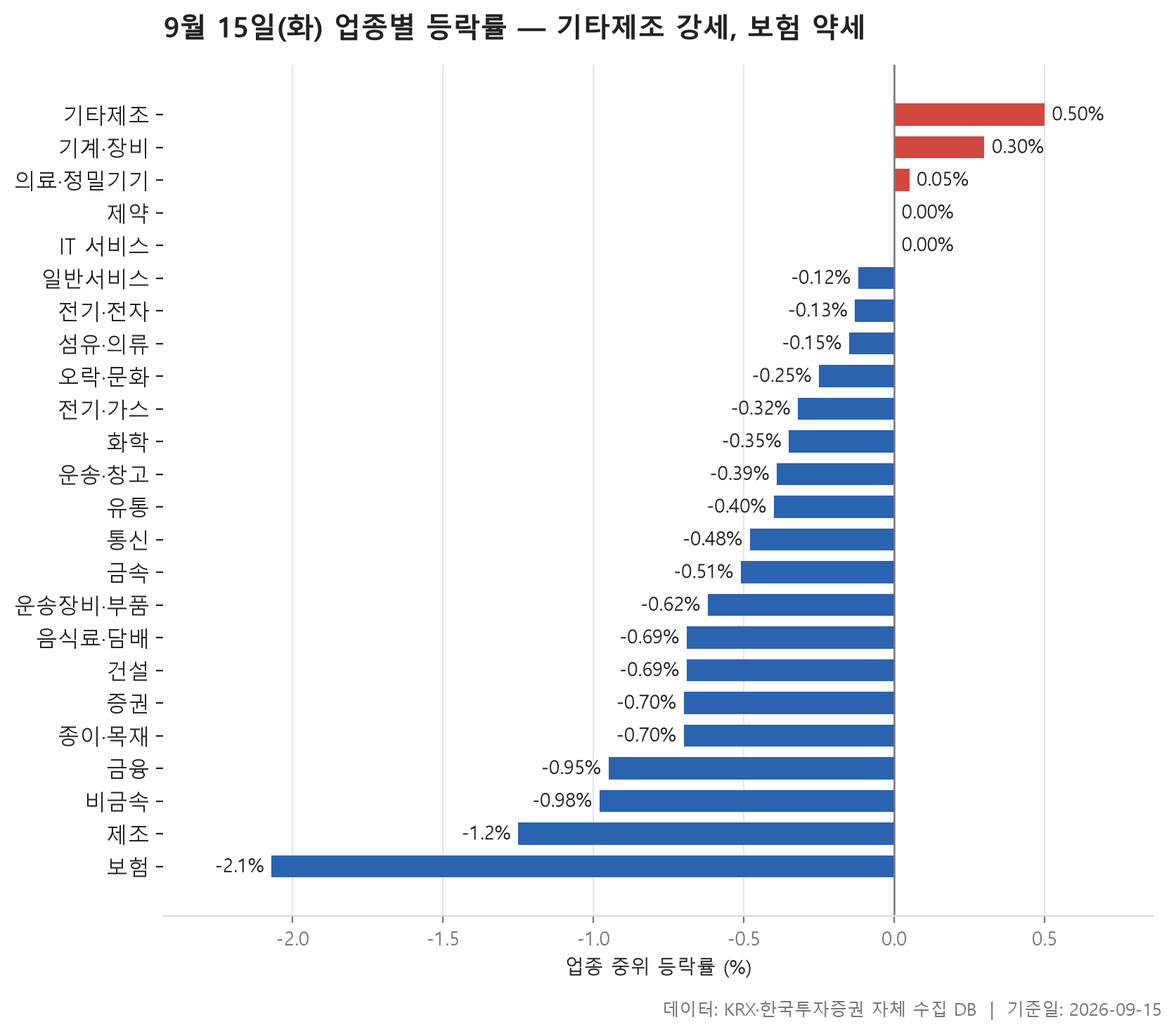
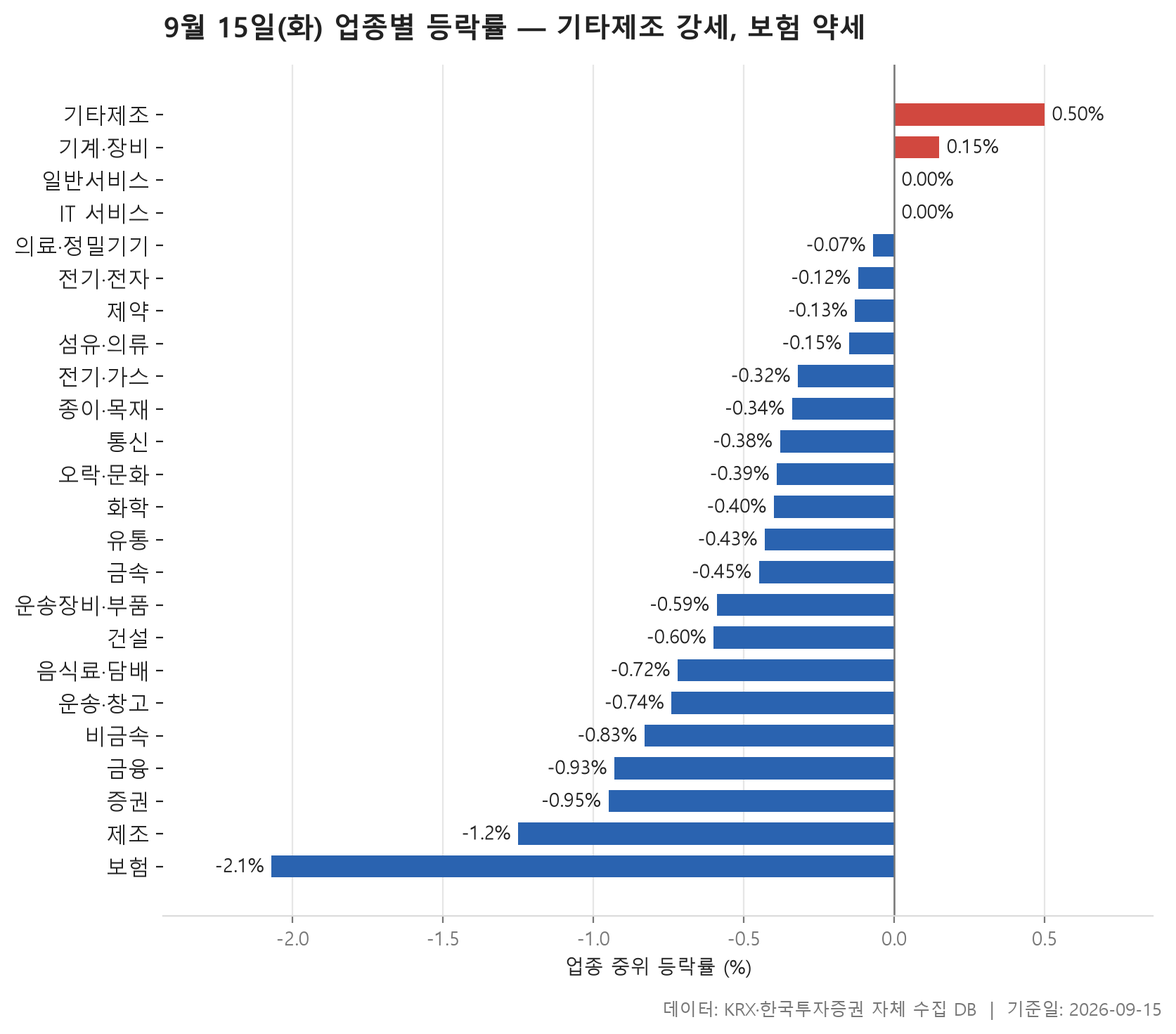
2026-09-15 자동 발행 (1편)
- 2026-09-15-daily-market

blog/daily.py 가 만들었습니다. push 는 사람이 확인 후 합니다.

diff --git a/content/posts/2026-09-15-daily-market/index.md b/content/posts/2026-09-15-daily-market/index.md
@@ -1,7 +1,7 @@
 ---
 title: "9월 15일(화) 오늘의 시장 — 기타제조 강세, 보험 약세"
 date: 2026-09-15T16:10:00+09:00
-lastmod: 2026-09-15T16:05:53+09:00
+lastmod: 2026-09-28T17:12:50+09:00
 description: "업종 흐름, 52주 신고가·신저가, 거래량이 터진 종목을 한 번에 정리했습니다."
 categories: ["오늘의 시장"]
 draft: false
@@ -20,123 +20,121 @@ strip:
     value: "20개"
     sign: ""
 ---
-9월 15일 화요일 장이 끝났습니다. 24개 업종을 늘어놓고 각 업종 안 종목들의 중위 등락률로 줄을 세워 보면, 한가운데 놓인 값이 <span class="chg chg-down">-0.40%</span>입니다. 오른 업종보다 내린 업종이 훨씬 많았고, 24개 중 3개만 플러스, 19개가 마이너스였습니다. 큰 폭으로 무너진 날은 아니지만 방향은 분명히 아래쪽이었던 셈이죠.
+9월 15일 시장은 크게 무너졌다기보다 넓게 조금씩 밀린 하루였습니다. 24개 업종 가운데 중위 등락률이 플러스로 끝난 곳은 2개, 마이너스로 끝난 곳은 20개였습니다. 업종들의 중위 등락률을 한 줄로 세우면 한가운데 값이 <span class="chg chg-down">-0.40%</span>입니다. 낙폭 자체는 크지 않았지만, 오른 쪽에 선 업종이 드물었다는 점이 이날의 모습을 잘 보여 줍니다.
 
-그런데 업종별 숫자를 조금 더 들여다보면 이야기가 단순하지 않습니다. 중위값은 마이너스인데 평균은 플러스인 업종이 여럿 있고, 반대로 한 종목이 크게 빠지면서 업종 평균을 혼자 끌어내린 곳도 보입니다. 시장 전체가 한 방향으로 움직였다기보다, 아래로 눌린 바닥 위에서 몇몇 종목만 따로 튀어 올랐다고 보는 편이 표에 가깝습니다.
+가장 잘 버틴 업종은 기타제조(<span class="chg chg-up">+0.50%</span>)였고, 가장 약한 업종은 보험(<span class="chg chg-down">-2.07%</span>)이었습니다. 52주 신고가와 신저가 목록도 같은 방향을 가리킵니다. 신고가를 새로 쓴 종목은 1개, 신저가로 내려앉은 종목은 5개였습니다. 한편 평소보다 거래량이 5배 넘게 터진 종목은 20개나 됐고, 이 가운데 대부분은 올랐습니다. 시장 전체가 가라앉은 가운데 일부 종목에만 매매가 몰린 날이었다고 보시면 됩니다.
 
-오늘 글에서는 업종 등락률로 전체 그림을 잡고, 52주 최고가를 넘어선 종목과 최저가를 밑돈 종목으로 양쪽 끝을 확인한 뒤, 거래량이 평소의 다섯 배를 넘긴 종목들로 마무리하겠습니다. 어느 표든 숫자가 말해 주는 범위까지만 설명하고, 이유를 지어내지는 않겠습니다.
+아래에서는 업종 흐름부터 보고, 신고가·신저가를 거쳐 거래량이 급증한 종목으로 차례로 넘어갑니다. 각 표에서 숫자가 서로 맞지 않아 보이는 곳을 중심으로 짚어 보겠습니다.
 
 > 기준일: 2026-09-15 · 집계: 자체 수집 데이터베이스
 
-## 업종 등락률 — 24개 중 19개 하락
+## 업종 등락률 — 24개 중 20개 하락
 
-가장 강했던 곳은 기타제조로 중위 등락률이 <span class="chg chg-up">+0.50%</span>, 가장 약했던 곳은 보험으로 <span class="chg chg-down">-2.07%</span>입니다. 위아래 폭이 그리 넓지 않습니다. 플러스로 마감한 업종은 기타제조, 기계·장비(<span class="chg chg-up">+0.30%</span>), 의료·정밀기기(<span class="chg chg-up">+0.05%</span>) 셋뿐이고, 제약과 IT 서비스가 0.00%로 정확히 제자리, 그 아래로는 완만하게 마이너스가 이어집니다. 표의 대부분이 일점 밑에 촘촘히 모여 있어서, 업종 간 차이보다는 '전반적으로 조금씩 밀렸다'는 인상이 먼저 옵니다.
+맨 위에 선 업종부터 힘이 약했습니다. 플러스로 끝난 곳은 기타제조(<span class="chg chg-up">+0.50%</span>)와 기계·장비(<span class="chg chg-up">+0.15%</span>) 둘뿐이고, 일반서비스와 IT 서비스는 중위값이 0.00%로 제자리였습니다. 맨 아래의 보험은 조금 다른 문제입니다. 11개 종목 가운데 오른 종목이 하나도 없었고, 평균(<span class="chg chg-down">-2.21%</span>)도 중위값과 거의 붙어 있습니다. 한두 종목이 끌어내린 게 아니라 업종 전체가 고르게 빠졌다는 뜻이죠. 가장 크게 움직인 삼성생명도 <span class="chg chg-down">-4.19%</span>에 그쳐 눈에 띄게 튄 종목이 없었습니다.
 
-눈에 띄는 건 중위값과 평균이 어긋난 업종들입니다. 일반서비스는 한가운데 값이 <span class="chg chg-down">-0.12%</span>인데 평균은 <span class="chg chg-up">+0.42%</span>이고, 오락·문화도 중위값 <span class="chg chg-down">-0.25%</span>에 평균 <span class="chg chg-up">+0.38%</span>입니다. 두 업종 모두 가장 크게 움직인 종목이 상한가 언저리까지 올랐는데, 그 한 종목이 업종 평균을 각각 0.18%p, 0.44%p 끌어올린 것으로 집계됩니다. 중위값과 평균의 벌어진 폭을 생각하면 그 종목 하나만으로 설명되지는 않고, 다른 몇몇 종목도 함께 위로 움직였다고 읽는 편이 맞겠습니다. 건설도 비슷합니다. 중위값은 <span class="chg chg-down">-0.69%</span>로 낮은 편인데 평균은 <span class="chg chg-down">-0.18%</span>에 그칩니다.
+중위값과 평균이 벌어진 업종에서는 대개 한 종목이 평균을 움직였습니다. 기타제조는 중위값이 <span class="chg chg-up">+0.50%</span>인데 평균은 <span class="chg chg-up">+1.26%</span>입니다. 에이럭스(<span class="chg chg-up">+9.69%</span>) 하나가 업종 평균을 0.69%p 끌어올렸으니, 격차의 대부분은 이 종목 몫입니다. 오락·문화는 방향까지 뒤집혔습니다. 중위값은 <span class="chg chg-down">-0.39%</span>인데 평균은 <span class="chg chg-up">+0.15%</span>로 플러스이고, YTN(<span class="chg chg-up">+29.80%</span>) 한 종목이 평균을 0.44%p 올려놓았습니다. 통신은 그 반대입니다. 중위값은 <span class="chg chg-down">-0.38%</span>로 무난했지만 평균은 <span class="chg chg-down">-1.57%</span>까지 내려갔고, 프리티(<span class="chg chg-down">-13.13%</span>)가 혼자서 평균을 1.01%p 끌어내렸습니다. 이런 업종에서는 평균만 봐서는 업종 전체의 분위기를 읽기 어렵습니다.
 
-반대 방향으로 어긋난 곳도 있습니다. 섬유·의류는 중위값이 <span class="chg chg-down">-0.15%</span>로 무난한데 평균은 <span class="chg chg-down">-0.82%</span>까지 내려가 있고, 가장 크게 움직인 종목이 <span class="chg chg-down">-29.29%</span>로 하한가 부근까지 밀리면서 업종 평균을 0.61%p 깎았습니다. 통신 역시 중위값 <span class="chg chg-down">-0.48%</span> 대비 평균이 <span class="chg chg-down">-1.69%</span>로 크게 벌어져 있는데, 13개 종목뿐인 업종에서 <span class="chg chg-down">-13.13%</span>짜리 한 종목이 평균을 1.01%p 끌어내렸으니 평균 쪽 숫자는 거의 그 종목이 만든 값입니다. 화학에서는 <span class="chg chg-down">-38.03%</span>까지 빠진 종목이 있었지만 222개 종목이 나눠 받다 보니 평균 기여는 -0.17%p에 그쳤습니다. 업종 규모에 따라 한 종목의 무게가 얼마나 달라지는지 보여 주는 대목이죠.
-
-상승비율도 같이 보면 좋습니다. 보험은 11개 종목 중 오른 종목이 하나도 없어 상승비율이 0.00%입니다. 운송·창고와 제조는 일곱 중 하나꼴, 음식료·담배·증권·비금속도 다섯에 하나 안팎에 머물렀습니다. 반면 기타제조는 열 곳 중 여섯 곳 이상이 올랐고, 기계·장비는 절반을 조금 넘겼습니다. 거래대금이 112,808.60억원으로 압도적인 전기·전자는 중위값 <span class="chg chg-down">-0.13%</span>, 평균 <span class="chg chg-down">-0.01%</span>로 사실상 제자리에 가까웠습니다. 돈이 가장 많이 오간 곳이 가장 조용했던 셈입니다.
+종목 수가 많은 업종에서는 한 종목의 영향이 묻힙니다. 화학의 카프로는 <span class="chg chg-down">-38.03%</span>로 표 전체에서 낙폭이 가장 컸지만, 222개 종목 속에서 업종 평균을 움직인 폭은 0.17%p에 머물렀습니다. 거래대금으로 보면 전기·전자가 118,720.60억원으로 다른 업종을 크게 앞섰는데, 중위값 <span class="chg chg-down">-0.12%</span>에 평균 <span class="chg chg-up">+0.01%</span>로 거의 움직이지 않았습니다. 하단에서는 오른 종목이 드문 업종이 눈에 띕니다. 운송·창고는 오른 종목이 10.70%로 열 곳에 한 곳꼴이었고, 증권(11.10%)과 음식료·담배(17.90%)도 비슷하게 한쪽으로 쏠려 있었습니다.
 
 ![업종 등락률 차트](chart-sector-change.png)
 
 | 업종 | 종목수(개) | 중위등락률(%) | 평균등락률(%) | 상승비율(%) | 주도종목 | 주도종목등락률(%) | 평균기여도(%p) | 거래대금합계(억원) |
 |---|---|---|---|---|---|---|---|---|
-| 기타제조 | 14 | +0.50 | +1.43 | 64.30 | 에이럭스 | +9.83 | 0.70 | 162.30 |
-| 기계·장비 | 206 | +0.30 | +0.64 | 54.40 | 코닉오토메이션 | +22.65 | 0.11 | 16,200.00 |
-| 의료·정밀기기 | 100 | +0.05 | +0.24 | 50.00 | 케이엔알시스템 | +17.87 | 0.18 | 2,421.30 |
-| 제약 | 165 | 0.00 | +0.48 | 43.60 | 삼익제약 | +27.46 | 0.17 | 10,468.80 |
-| IT 서비스 | 243 | 0.00 | +0.45 | 46.90 | 아이티센피엔에스 | +29.78 | 0.12 | 11,610.30 |
-| 일반서비스 | 168 | -0.12 | +0.42 | 42.90 | 엔젠바이오 | +29.94 | 0.18 | 6,884.20 |
-| 전기·전자 | 363 | -0.13 | -0.01 | 46.30 | 한국첨단소재 | +29.98 | 0.08 | 112,808.60 |
-| 섬유·의류 | 48 | -0.15 | -0.82 | 41.70 | 원풍물산 | -29.29 | -0.61 | 182.60 |
-| 오락·문화 | 67 | -0.25 | +0.38 | 44.80 | YTN | +29.80 | 0.44 | 719.50 |
-| 전기·가스 | 10 | -0.32 | -1.09 | 40.00 | SGC에너지 | -5.79 | -0.58 | 514.50 |
-| 화학 | 222 | -0.35 | -0.29 | 40.50 | 카프로 | -38.03 | -0.17 | 11,032.20 |
-| 운송·창고 | 28 | -0.39 | -1.11 | 14.30 | 대한해운 | -7.31 | -0.26 | 927.30 |
-| 유통 | 154 | -0.40 | -0.42 | 37.00 | 인콘 | -9.65 | -0.06 | 4,469.30 |
-| 통신 | 13 | -0.48 | -1.69 | 15.40 | 프리티 | -13.13 | -1.01 | 1,276.90 |
-| 금속 | 131 | -0.51 | -0.50 | 35.10 | SHD | +29.97 | 0.23 | 4,337.90 |
-| 운송장비·부품 | 134 | -0.62 | -0.36 | 30.60 | 삼현 | +30.45 | 0.23 | 9,731.70 |
-| 음식료·담배 | 84 | -0.69 | -0.98 | 19.00 | 우리바이오 | +5.66 | 0.07 | 1,135.00 |
-| 건설 | 51 | -0.69 | -0.18 | 33.30 | KCC건설 | +6.24 | 0.12 | 3,583.40 |
-| 증권 | 18 | -0.70 | -0.92 | 16.70 | 미래에셋증권 | -3.17 | -0.18 | 881.10 |
-| 종이·목재 | 27 | -0.70 | -0.39 | 37.00 | 모나리자 | +6.06 | 0.22 | 112.00 |
-| 금융 | 111 | -0.95 | -0.74 | 27.90 | 나우IB | +9.46 | 0.09 | 13,546.20 |
-| 비금속 | 36 | -0.98 | -1.09 | 16.70 | 동국알앤에스 | -5.00 | -0.14 | 429.70 |
-| 제조 | 7 | -1.25 | -0.63 | 14.30 | 에넥스 | +4.36 | 0.62 | 7.60 |
-| 보험 | 11 | -2.07 | -2.15 | 0.00 | 삼성생명 | -4.03 | -0.37 | 2,235.60 |
+| 기타제조 | 14 | +0.50 | +1.26 | 64.30 | 에이럭스 | +9.69 | 0.69 | 165.40 |
+| 기계·장비 | 206 | +0.15 | +0.53 | 51.90 | 코닉오토메이션 | +24.75 | 0.12 | 17,060.50 |
+| 일반서비스 | 168 | 0.00 | +0.45 | 44.00 | 엔젠바이오 | +29.94 | 0.18 | 7,334.90 |
+| IT 서비스 | 243 | 0.00 | +0.34 | 46.50 | 아톤 | +29.84 | 0.12 | 12,909.30 |
+| 의료·정밀기기 | 100 | -0.07 | +0.26 | 49.00 | 케이엔알시스템 | +17.75 | 0.18 | 2,754.50 |
+| 전기·전자 | 363 | -0.12 | +0.01 | 46.00 | 한국첨단소재 | +29.98 | 0.08 | 118,720.60 |
+| 제약 | 165 | -0.13 | +0.41 | 41.80 | 삼익제약 | +26.11 | 0.16 | 10,876.00 |
+| 섬유·의류 | 48 | -0.15 | -0.90 | 41.70 | 원풍물산 | -29.29 | -0.61 | 187.60 |
+| 전기·가스 | 10 | -0.32 | -1.13 | 40.00 | SGC에너지 | -5.79 | -0.58 | 533.30 |
+| 종이·목재 | 27 | -0.34 | -0.29 | 37.00 | 무림P&P | +2.96 | 0.11 | 114.90 |
+| 통신 | 13 | -0.38 | -1.57 | 23.10 | 프리티 | -13.13 | -1.01 | 1,392.40 |
+| 오락·문화 | 67 | -0.39 | +0.15 | 41.80 | YTN | +29.80 | 0.44 | 732.20 |
+| 화학 | 222 | -0.40 | -0.43 | 37.80 | 카프로 | -38.03 | -0.17 | 11,562.20 |
+| 유통 | 154 | -0.43 | -0.44 | 36.40 | 인콘 | -9.65 | -0.06 | 4,643.80 |
+| 금속 | 131 | -0.45 | -0.52 | 35.10 | SHD | +29.97 | 0.23 | 4,522.30 |
+| 운송장비·부품 | 134 | -0.59 | -0.40 | 30.60 | 삼현 | +29.80 | 0.22 | 10,150.00 |
+| 건설 | 51 | -0.60 | -0.20 | 33.30 | KCC건설 | +6.24 | 0.12 | 3,822.70 |
+| 음식료·담배 | 84 | -0.72 | -1.03 | 17.90 | 우리바이오 | +5.66 | 0.07 | 1,281.90 |
+| 운송·창고 | 28 | -0.74 | -1.10 | 10.70 | 팬오션 | -5.96 | -0.21 | 971.80 |
+| 비금속 | 36 | -0.83 | -1.00 | 16.70 | 강동씨앤엘 | -5.06 | -0.14 | 461.40 |
+| 금융 | 111 | -0.93 | -0.74 | 28.80 | 린드먼아시아 | +8.79 | 0.08 | 14,247.50 |
+| 증권 | 18 | -0.95 | -1.14 | 11.10 | 미래에셋증권 | -3.32 | -0.18 | 910.50 |
+| 제조 | 7 | -1.25 | -0.63 | 14.30 | 에넥스 | +4.36 | 0.62 | 7.70 |
+| 보험 | 11 | -2.07 | -2.21 | 0.00 | 삼성생명 | -4.19 | -0.38 | 2,341.20 |
 
-## 52주 신고가 1개 — 인피니트헬스케어 13.17%
+## 52주 신고가 1개 — 인피니트헬스케어 14.50%
 
-52주 최고가를 넘어선 종목은 시가총액 500억원, 거래대금 3억원이라는 조건을 걸고 셌을 때 단 하나였습니다. 인피니트헬스케어가 12,800원에 마감하며 <span class="chg chg-up">+13.17%</span> 올랐고, 직전 52주 최고가였던 11,310원을 넘겼습니다. 시가총액은 3,123억원, 시장은 코스닥, 업종 구분은 IT 서비스입니다.
+이날 52주 신고가를 새로 쓴 종목은 인피니트헬스케어 하나뿐입니다. 코스닥 IT 서비스 종목으로, 종가 12,950원에 <span class="chg chg-up">+14.50%</span> 올라 직전 52주 최고가였던 11,310원을 넉넉하게 넘어섰습니다. 시가총액은 3,159.30억원, 거래대금은 290.40억원이었습니다.
 
-신고가 종목이 하루에 하나뿐이라는 것은 그 자체로 정보입니다. 업종 대부분이 마이너스로 마감한 날이었으니 어울리는 결과이기도 하고요. 다만 이 종목은 뒤에 나올 거래량 급증 명단에도 이름을 올리는데, 평소 거래량의 24.00배가 오간 날이었습니다. 왜 그랬는지는 이 표가 말해 주지 않습니다. 오늘 확인할 수 있는 건 가격이 지난 1년 구간의 위쪽을 처음 뚫었고, 거래가 평소보다 크게 늘었다는 두 가지 사실뿐입니다.
+이 종목은 뒤에 나오는 거래량 급증 표에도 다시 등장합니다. 평소보다 24.10배 많은 거래량이 실리면서 신고가를 뚫은 셈이죠. 흥미로운 건 이 종목이 속한 IT 서비스 업종의 중위 등락률이 0.00%였다는 점입니다. 업종 전체는 보합이었는데 그 안에서 몇몇 종목만 크게 움직였고, 인피니트헬스케어가 그중 하나였습니다. 왜 올랐는지는 자료에 없으니 여기서 판단하지 않겠습니다.
+
+신고가가 하나에 그친 것 자체도 이날 시장을 말해 줍니다. 신저가 쪽이 5개였으니 새로운 고점보다 새로운 저점이 더 많이 나온 하루였습니다.
 
 ![52주 신고가 차트](chart-high-change-rate.png)
 
 | 종목명 | 종목코드 | 시장 | 업종 | 종가(원) | 등락률(%) | 이전52주최고(원) | 거래대금(억원) | 시가총액(억원) |
 |---|---|---|---|---|---|---|---|---|
-| 인피니트헬스케어 | 071200 | KOSDAQ | IT 서비스 | 12,800 | +13.17 | 11,310 | 287.70 | 3,123 |
+| 인피니트헬스케어 | 071200 | KOSDAQ | IT 서비스 | 12,950 | +14.50 | 11,310 | 290.40 | 3,159.30 |
 
-## 52주 신저가 5개 — 최저 에이비엘바이오 -7.91%
+## 52주 신저가 5개 — 최저 에이비엘바이오 -8.63%
 
-아래쪽 끝에는 다섯 종목이 있습니다. 위쪽이 하나였던 것과 비교하면 숫자로도 오늘 시장의 기울기가 드러나는 셈이죠. 다섯 중 넷이 코스닥, 하나가 코스피이고, 업종은 셋으로 나뉘는데 제약이 3개로 가장 많습니다.
+52주 신저가로 내려간 종목은 5개이고, 이 중 3개가 제약 업종입니다. 코스닥이 4개, 코스피가 1개입니다. 규모가 가장 큰 곳은 시가총액 33,200.60억원의 에이비엘바이오입니다. 하루 <span class="chg chg-down">-8.63%</span> 빠지면서 종가 59,300원으로 직전 52주 최저가 59,800원을 밑돌았습니다. 거래대금도 578.20억원으로 이 표에서 홀로 많았습니다.
 
-낙폭은 종목마다 꽤 다릅니다. 가장 많이 내린 에이비엘바이오가 <span class="chg chg-down">-7.91%</span>, 프레스티지바이오로직스가 <span class="chg chg-down">-6.94%</span>로 두 자릿수에 가까운 반면, 노바렉스는 <span class="chg chg-down">-0.59%</span>에 그쳤습니다. 한가운데 놓인 값은 <span class="chg chg-down">-2.30%</span>입니다. 즉 '크게 무너져서 신저가'인 종목과 '살짝 밀렸는데 마침 그 자리가 1년 최저'인 종목이 섞여 있습니다. 노바렉스의 종가가 10,030원, 직전 52주 최저가가 10,040원이라는 점을 보면 후자가 어떤 모습인지 짐작이 갑니다. 이미 바닥 언저리에 오래 머물러 있던 가격이 아주 조금 더 내려가면서 기록이 갱신된 것이죠. SNT다이내믹스(27,600원, 직전 최저 27,700원)와 티앤엘(27,100원, 직전 최저 27,300원)도 비슷한 모양입니다.
+나머지 종목들은 결이 좀 다릅니다. 노바렉스는 <span class="chg chg-down">-0.59%</span>만 내렸는데도 종가 10,030원이 이전 최저가 10,040원을 간신히 밑돌면서 신저가가 됐습니다. 유일한 코스피 종목인 SNT다이내믹스 역시 27,700원이던 이전 저점을 27,600원으로 살짝 낮췄을 뿐입니다. 두 종목의 거래대금은 각각 3.40억원, 6.50억원으로 적었습니다. 크게 팔렸다기보다 한산한 거래 속에서 저점이 조금씩 내려온 모습입니다. 반면 프레스티지바이오로직스는 <span class="chg chg-down">-6.94%</span> 급락하며 1,616원이던 이전 저점을 1,528원으로 확실히 끌어내렸습니다.
 
-시가총액에서는 에이비엘바이오가 33,257억원으로 나머지와 자릿수가 다릅니다. 이 종목만 거래대금이 555.40억원으로 두드러지고, 나머지 넷은 몇 억원에서 십여 억원 수준에 머물러 있습니다. 같은 '신저가'라는 이름으로 묶였지만 거래가 몰린 곳은 한 곳뿐이었다는 뜻입니다.
+다섯 종목의 하루 등락률을 모아 보면 가운데 값이 <span class="chg chg-down">-2.30%</span>입니다. 큰 폭으로 빠져 저점을 깬 종목과 조금 밀려 경계선을 넘은 종목이 섞여 있다는 뜻입니다. 그래서 신저가라는 결과는 같아도 무게는 종목마다 다르게 봐야 합니다.
 
 ![52주 신저가 차트](chart-low-change-rate.png)
 
 | 종목명 | 종목코드 | 시장 | 업종 | 종가(원) | 등락률(%) | 이전52주최저(원) | 거래대금(억원) | 시가총액(억원) |
 |---|---|---|---|---|---|---|---|---|
-| 에이비엘바이오 | 298380 | KOSDAQ | 제약 | 59,400 | -7.91 | 59,800 | 555.40 | 33,257 |
-| SNT다이내믹스 | 003570 | KOSPI | 운송장비·부품 | 27,600 | -2.30 | 27,700 | 6.10 | 9,178 |
-| 티앤엘 | 340570 | KOSDAQ | 제약 | 27,100 | -1.45 | 27,300 | 13.60 | 4,355 |
-| 노바렉스 | 194700 | KOSDAQ | 음식료·담배 | 10,030 | -0.59 | 10,040 | 3.20 | 1,831 |
-| 프레스티지바이오로직스 | 334970 | KOSDAQ | 제약 | 1,528 | -6.94 | 1,616 | 6.00 | 1,188 |
+| 에이비엘바이오 | 298380 | KOSDAQ | 제약 | 59,300 | -8.63 | 59,800 | 578.20 | 33,200.60 |
+| SNT다이내믹스 | 003570 | KOSPI | 운송장비·부품 | 27,600 | -2.30 | 27,700 | 6.50 | 9,177.70 |
+| 티앤엘 | 340570 | KOSDAQ | 제약 | 27,200 | -1.09 | 27,300 | 13.90 | 4,371.10 |
+| 노바렉스 | 194700 | KOSDAQ | 음식료·담배 | 10,030 | -0.59 | 10,040 | 3.40 | 1,831.00 |
+| 프레스티지바이오로직스 | 334970 | KOSDAQ | 제약 | 1,528 | -6.94 | 1,616 | 6.10 | 1,188.10 |
 
-## 거래량 급증 20개 — 최고 오상헬스케어 291배
+## 거래량 급증 20개 — 최고 오상헬스케어 337.70배
 
-당일 거래량이 직전 20거래일 평균의 5배를 넘은 종목 가운데 시가총액·거래대금 조건을 통과한 것이 20개입니다. 배수의 분포가 상당히 치우쳐 있습니다. 오상헬스케어가 291.00배, 한컴라이프케어가 192.60배, 무림P&P가 105.50배로 세 종목만 세 자릿수이고, 그 아래는 57.10배에서 11.40배까지 완만하게 내려옵니다. 한가운데 값은 24.90배입니다. 위쪽 몇 종목이 평균을 통째로 왜곡하는 전형적인 모양이라, 배수는 순위보다 '어디서 끊기는가'를 보는 게 낫습니다.
+평소의 5배를 넘는 거래량이 실린 종목은 20개였고, 배수를 늘어놓았을 때 한가운데 값이 26.60배입니다. 기준선인 5배를 한참 웃도는 종목이 대부분이었다는 얘기입니다. 맨 위의 오상헬스케어는 20일 평균이 하루 12,246주였는데 이날은 4,135,650주가 거래돼 337.70배를 기록했고, 주가는 <span class="chg chg-up">+10.58%</span> 올랐습니다. 한컴라이프케어(196.20배)와 종이·목재 업종에서 가장 크게 움직인 무림P&P(107.00배)까지, 100배를 넘긴 종목이 세 곳입니다.
 
-거래가 터졌다고 해서 다 오른 것은 아닙니다. 20개 중 대부분이 플러스지만 자람테크놀로지는 <span class="chg chg-down">-25.25%</span>, 해성에어로보틱스는 <span class="chg chg-down">-7.05%</span>, 티와이홀딩스는 <span class="chg chg-down">-0.94%</span>로 마이너스입니다. 특히 자람테크놀로지는 평소의 17.40배가 거래되면서 크게 밀렸습니다. 거래량 급증은 방향이 아니라 관심의 크기를 재는 지표라는 점을 이 세 종목이 보여 줍니다.
+업종으로는 IT 서비스가 7개로 가장 많습니다. 아톤(<span class="chg chg-up">+29.84%</span>)과 한컴위드(<span class="chg chg-up">+29.78%</span>)가 급등했고, 라온시큐어(<span class="chg chg-up">+14.69%</span>)는 거래대금이 1,542.90억원으로 이 표에서 가장 컸습니다. 앞에서 봤듯이 IT 서비스 업종 전체의 중위 등락률은 0.00%였습니다. 업종이 함께 오른 게 아니라 몇몇 종목에 매매가 집중됐다고 읽는 편이 맞습니다. 전기·전자의 한국첨단소재(<span class="chg chg-up">+29.98%</span>)는 거래대금이 1,342.20억원이었는데, 시가총액 1,012.10억원보다도 많습니다. 라온시큐어 역시 거래대금이 시가총액 1,439.30억원을 웃돌았습니다. 하루 사이에 회사 몸집보다 큰 금액이 손바뀜된 셈입니다.
 
-배수와 거래대금이 따로 노는 것도 눈여겨볼 만합니다. 배수 1위인 오상헬스케어의 거래대금은 277.10억원인데, 배수로는 25.80배에 불과한 한국첨단소재가 1,339.30억원, 19.40배인 라온시큐어가 1,448.30억원으로 훨씬 큽니다. 배수는 그 종목의 평소 거래량 대비 몇 배인지를 볼 뿐이라, 원래 조용하던 종목일수록 숫자가 쉽게 커집니다. 실제로 오간 돈의 크기는 별개인 셈이죠. 반대편 끝에 있는 KCC건설은 11.40배로 명단 맨 아래인데 거래대금도 10.40억원, 티와이홀딩스는 3.70억원으로 필터 하한 근처입니다.
-
-업종은 9개로 나뉘고 IT 서비스가 6개로 가장 많습니다. 앞서 업종 표에서 IT 서비스의 중위 등락률은 0.00%였는데, 그 안에서 거래가 크게 늘어난 종목이 여섯이나 나왔다는 조합입니다. 업종 전체가 움직인 게 아니라 일부 종목에 거래가 몰린 하루였다고 읽을 수 있겠습니다. 시장별로는 코스닥이 16개, 코스피가 4개였습니다.
+표 맨 아래 네 종목만 빼면 모두 올랐습니다. 다만 거래량이 터졌다고 늘 오른 것은 아닙니다. 자람테크놀로지는 거래량이 12.50배로 늘면서 <span class="chg chg-down">-23.93%</span> 급락했습니다. 미투온은 배수가 12.30배로 표에서 가장 낮은데, 평소 거래량 자체가 하루 1,880,261주로 많았기 때문입니다. 이날 거래대금은 868.10억원으로 상위권이었고 주가는 <span class="chg chg-down">-4.98%</span> 내렸습니다. 시장별로는 코스닥이 16개, 코스피가 4개로 코스닥 쪽에 크게 몰렸습니다.
 
 ![거래량 급증 차트](chart-volume-ratio.png)
 
 | 종목명 | 종목코드 | 시장 | 업종 | 종가(원) | 등락률(%) | 거래량(주) | 평균거래량(주) | 배수(배) | 거래대금(억원) | 시가총액(억원) |
 |---|---|---|---|---|---|---|---|---|---|---|
-| 오상헬스케어 | 036220 | KOSDAQ | 의료·정밀기기 | 7,230 | +10.89 | 3,560,381 | 12,235 | 291.00 | 277.10 | 1,035 |
-| 한컴라이프케어 | 372910 | KOSPI | 의료·정밀기기 | 2,040 | +7.26 | 11,828,188 | 61,412 | 192.60 | 262.10 | 565 |
-| 무림P&P | 009580 | KOSPI | 종이·목재 | 1,670 | +2.96 | 4,471,771 | 42,393 | 105.50 | 80.00 | 1,042 |
-| 한국정보인증 | 053300 | KOSDAQ | IT 서비스 | 5,470 | +5.60 | 5,813,274 | 101,893 | 57.10 | 336.80 | 2,164 |
-| 아톤 | 158430 | KOSDAQ | IT 서비스 | 6,310 | +29.70 | 11,715,725 | 284,053 | 41.20 | 671.50 | 1,545 |
-| 코닉오토메이션 | 391710 | KOSDAQ | 기계·장비 | 1,473 | +22.65 | 7,239,555 | 205,682 | 35.20 | 106.00 | 628 |
-| 동아지질 | 028100 | KOSPI | 건설 | 18,330 | +3.38 | 555,352 | 16,629 | 33.40 | 106.30 | 2,057 |
-| 한컴위드 | 054920 | KOSDAQ | IT 서비스 | 5,230 | +29.78 | 10,083,905 | 325,639 | 31.00 | 490.10 | 1,476 |
-| 시공테크 | 020710 | KOSDAQ | 일반서비스 | 3,900 | +1.43 | 2,825,248 | 98,806 | 28.60 | 116.50 | 782 |
-| 한국첨단소재 | 062970 | KOSDAQ | 전기·전자 | 3,360 | +29.98 | 43,587,698 | 1,691,184 | 25.80 | 1,339.30 | 1,012 |
-| 인피니트헬스케어 | 071200 | KOSDAQ | IT 서비스 | 12,800 | +13.17 | 2,240,518 | 93,524 | 24.00 | 287.70 | 3,123 |
-| 에어레인 | 163280 | KOSDAQ | 기계·장비 | 3,965 | +11.06 | 1,507,101 | 65,995 | 22.80 | 63.10 | 539 |
-| 페스카로 | 0015S0 | KOSDAQ | 일반서비스 | 9,200 | +17.20 | 1,224,233 | 58,793 | 20.80 | 111.90 | 908 |
-| 라온시큐어 | 042510 | KOSDAQ | IT 서비스 | 12,850 | +14.43 | 11,018,141 | 567,427 | 19.40 | 1,448.30 | 1,427 |
-| 웨이비스 | 289930 | KOSDAQ | 전기·전자 | 7,450 | +3.47 | 910,836 | 47,518 | 19.20 | 73.20 | 980 |
-| 자람테크놀로지 | 389020 | KOSDAQ | 전기·전자 | 16,370 | -25.25 | 422,061 | 24,243 | 17.40 | 70.60 | 1,130 |
-| 파수AI | 150900 | KOSDAQ | IT 서비스 | 4,385 | +1.98 | 1,933,696 | 120,786 | 16.00 | 90.10 | 513 |
-| 티와이홀딩스 | 363280 | KOSPI | 금융 | 2,100 | -0.94 | 171,727 | 13,130 | 13.10 | 3.70 | 955 |
-| 해성에어로보틱스 | 059270 | KOSDAQ | 금속 | 4,880 | -7.05 | 579,910 | 45,007 | 12.90 | 26.50 | 545 |
-| KCC건설 | 021320 | KOSDAQ | 건설 | 5,960 | +6.24 | 171,796 | 15,128 | 11.40 | 10.40 | 1,275 |
+| 오상헬스케어 | 036220 | KOSDAQ | 의료·정밀기기 | 7,210 | +10.58 | 4,135,650 | 12,246 | 337.70 | 320.10 | 1,031.70 |
+| 한컴라이프케어 | 372910 | KOSPI | 의료·정밀기기 | 2,065 | +8.57 | 12,053,363 | 61,429 | 196.20 | 266.70 | 571.50 |
+| 무림P&P | 009580 | KOSPI | 종이·목재 | 1,670 | +2.96 | 4,557,129 | 42,597 | 107.00 | 81.50 | 1,041.60 |
+| 한국정보인증 | 053300 | KOSDAQ | IT 서비스 | 5,500 | +7.42 | 6,680,180 | 102,158 | 65.40 | 385.90 | 2,176.10 |
+| 동아지질 | 028100 | KOSPI | 건설 | 18,690 | +5.41 | 836,336 | 16,636 | 50.30 | 162.40 | 2,097.40 |
+| 아톤 | 158430 | KOSDAQ | IT 서비스 | 6,310 | +29.84 | 11,780,434 | 289,444 | 40.70 | 675.50 | 1,544.80 |
+| 한컴위드 | 054920 | KOSDAQ | IT 서비스 | 5,230 | +29.78 | 10,102,187 | 327,418 | 30.90 | 491.00 | 1,475.80 |
+| 시공테크 | 020710 | KOSDAQ | 일반서비스 | 3,895 | +1.30 | 2,962,733 | 98,838 | 30.00 | 121.70 | 780.90 |
+| 코닉오토메이션 | 391710 | KOSDAQ | 기계·장비 | 1,502 | +24.75 | 7,410,959 | 258,273 | 28.70 | 108.60 | 640.20 |
+| 페스카로 | 0015S0 | KOSDAQ | 일반서비스 | 9,200 | +17.20 | 1,624,283 | 58,973 | 27.50 | 149.30 | 907.70 |
+| 한국첨단소재 | 062970 | KOSDAQ | 전기·전자 | 3,360 | +29.98 | 43,673,913 | 1,700,776 | 25.70 | 1,342.20 | 1,012.10 |
+| 인피니트헬스케어 | 071200 | KOSDAQ | IT 서비스 | 12,950 | +14.50 | 2,261,895 | 93,835 | 24.10 | 290.40 | 3,159.30 |
+| 에어레인 | 163280 | KOSDAQ | 기계·장비 | 3,965 | +11.06 | 1,525,996 | 66,052 | 23.10 | 63.80 | 539.40 |
+| 라온시큐어 | 042510 | KOSDAQ | IT 서비스 | 12,960 | +14.69 | 11,757,859 | 604,733 | 19.40 | 1,542.90 | 1,439.30 |
+| 웨이비스 | 289930 | KOSDAQ | 전기·전자 | 7,430 | +7.06 | 919,613 | 47,536 | 19.30 | 73.80 | 977.00 |
+| 파수AI | 150900 | KOSDAQ | IT 서비스 | 4,285 | +0.47 | 1,974,230 | 122,153 | 16.20 | 91.80 | 501.50 |
+| 티와이홀딩스 | 363280 | KOSPI | 금융 | 2,100 | -0.94 | 173,100 | 13,132 | 13.20 | 3.70 | 955.40 |
+| 해성에어로보틱스 | 059270 | KOSDAQ | 금속 | 4,880 | -7.05 | 594,097 | 46,361 | 12.80 | 27.20 | 544.90 |
+| 자람테크놀로지 | 389020 | KOSDAQ | 전기·전자 | 16,240 | -23.93 | 445,607 | 35,618 | 12.50 | 74.40 | 1,121.40 |
+| 미투온 | 201490 | KOSDAQ | IT 서비스 | 2,955 | -4.98 | 23,076,550 | 1,880,261 | 12.30 | 868.10 | 967.00 |
 
 ## 정리
 
-정리하면, 24개 업종 중 19개가 마이너스로 끝났고 중간에 놓인 값이 <span class="chg chg-down">-0.40%</span>인 완만한 하락 장세였습니다. 52주 최고가를 새로 쓴 종목은 하나, 최저가를 밑돈 종목은 다섯이었고, 거래량이 평소의 다섯 배를 넘긴 종목은 스무 개였는데 그중 셋은 오히려 내렸습니다. 전체가 밀리는 와중에 일부 종목에만 거래와 가격이 몰린 날이었다고 요약할 수 있겠습니다.
+정리하면 9월 15일은 대부분의 업종이 조금씩 밀린 가운데, 거래량이 터진 몇몇 종목만 크게 오른 하루였습니다. 보험은 오른 종목 없이 고르게 내렸고, 기타제조와 오락·문화처럼 평균이 좋아 보이는 업종도 들여다보면 한 종목이 숫자를 만든 경우가 많았습니다. 신고가가 1개, 신저가가 5개였다는 점도 전반적으로 약했던 분위기와 맞아떨어집니다.
 
-다만 이 글의 표들은 모두 하루치 가격과 거래량을 집계한 결과일 뿐입니다. 왜 그렇게 움직였는지는 이 자료 안에 없고, 저도 추측해서 채우지 않았습니다. 업종 순위는 보통주 5종목 이상인 업종만, 신고가·신저가와 거래량 급증은 시가총액 500억원·거래대금 3억원 이상인 보통주만 대상으로 했으니, 조건을 바꾸면 명단도 달라집니다. 숫자를 읽을 때 그 범위를 함께 봐 주시기 바랍니다.
+다만 이 글은 하루치 종가만 비교한 것입니다. 오르고 내린 이유는 자료에 없어서 다루지 않았습니다. 신고가·신저가와 거래량 표는 시가총액 500억원 이상, 거래대금 3억원 이상인 보통주만 걸러 낸 결과라서 그보다 작은 종목의 움직임은 빠져 있습니다. 업종 순위도 5종목 이상인 업종의 중위값을 기준으로 매긴 것이니, 종목 수가 적은 업종은 한두 종목에 따라 순위가 크게 바뀔 수 있다는 점을 감안해 읽어 주세요.
 
 ## 집계 기준
 
